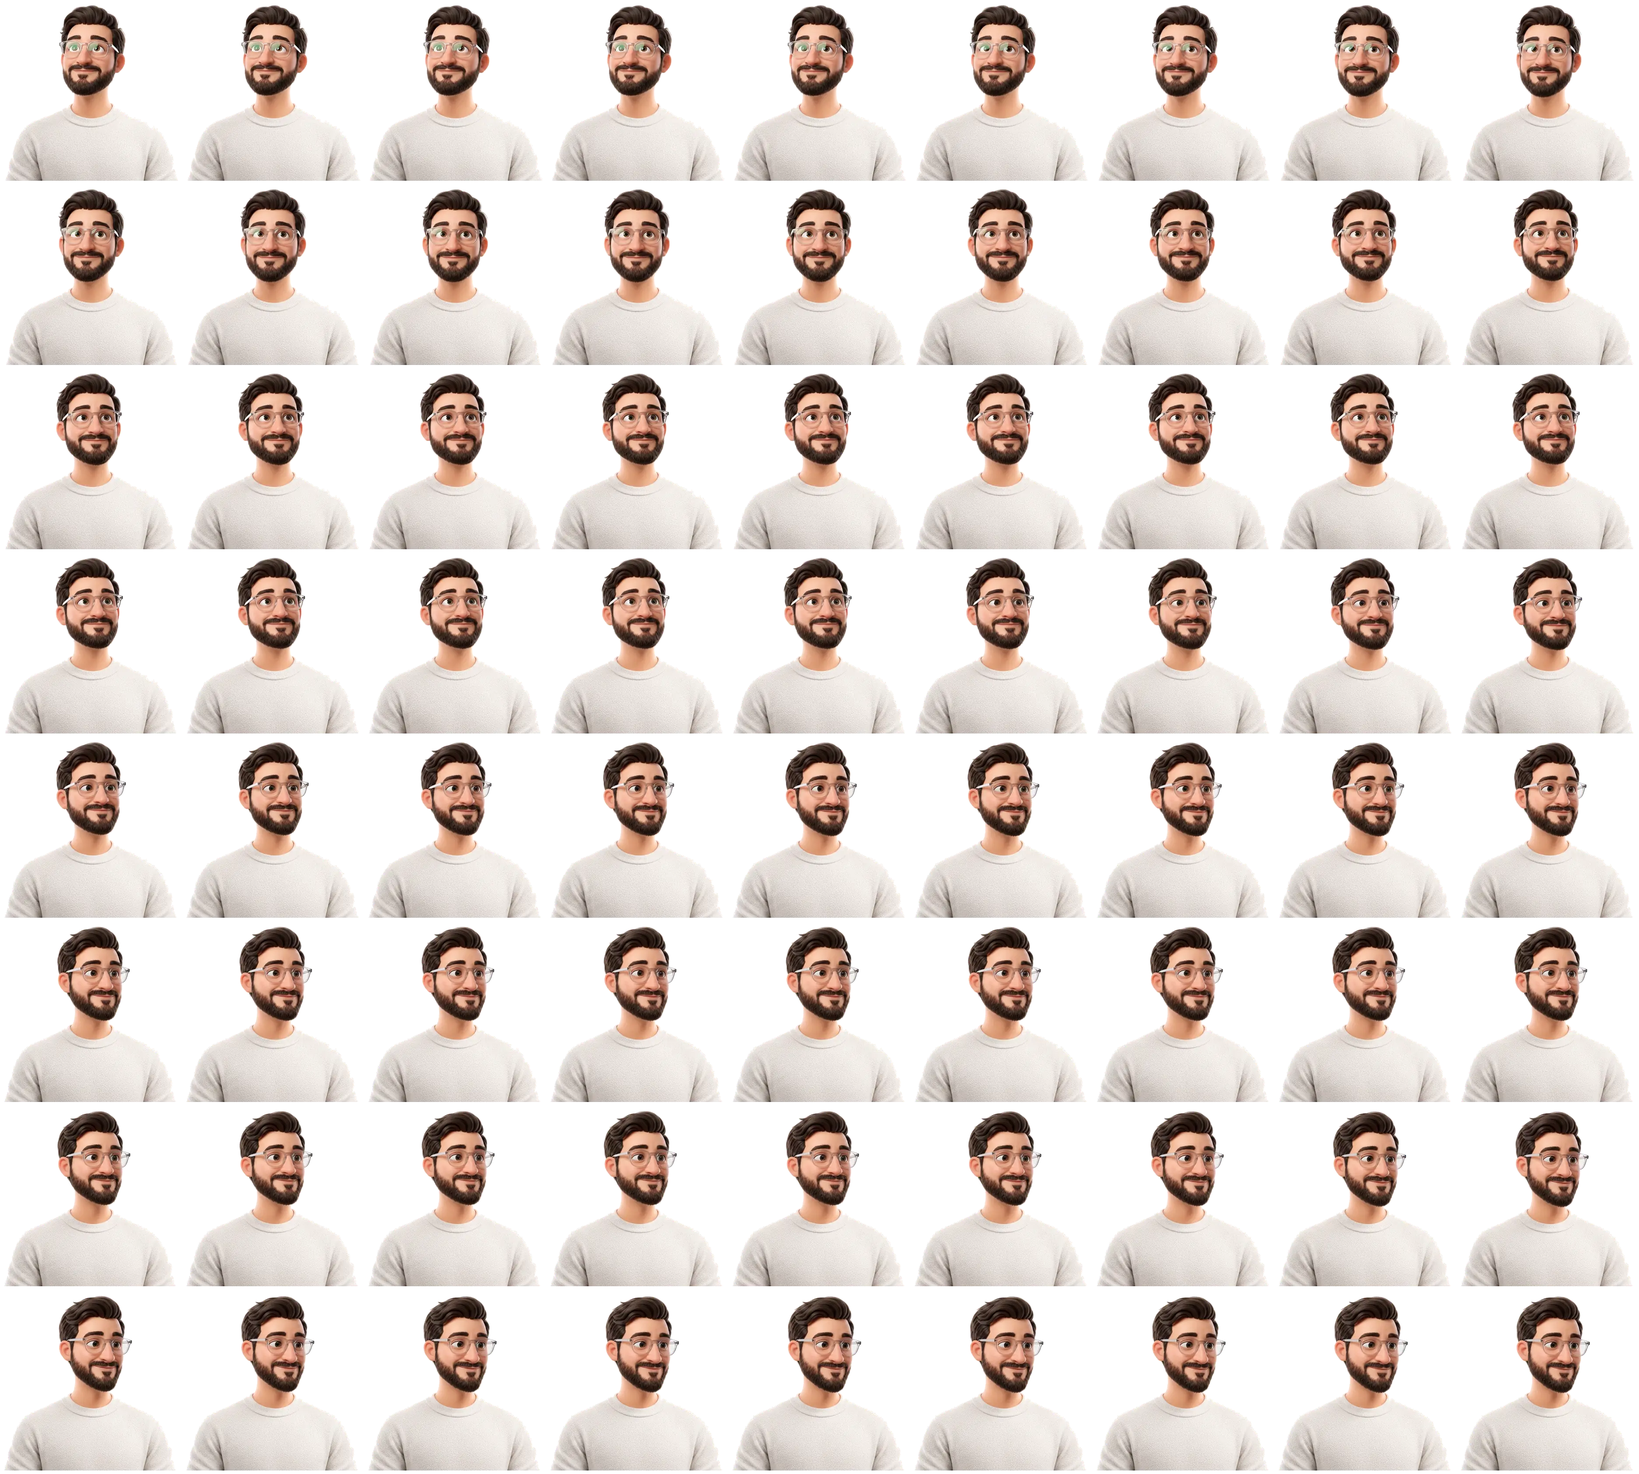
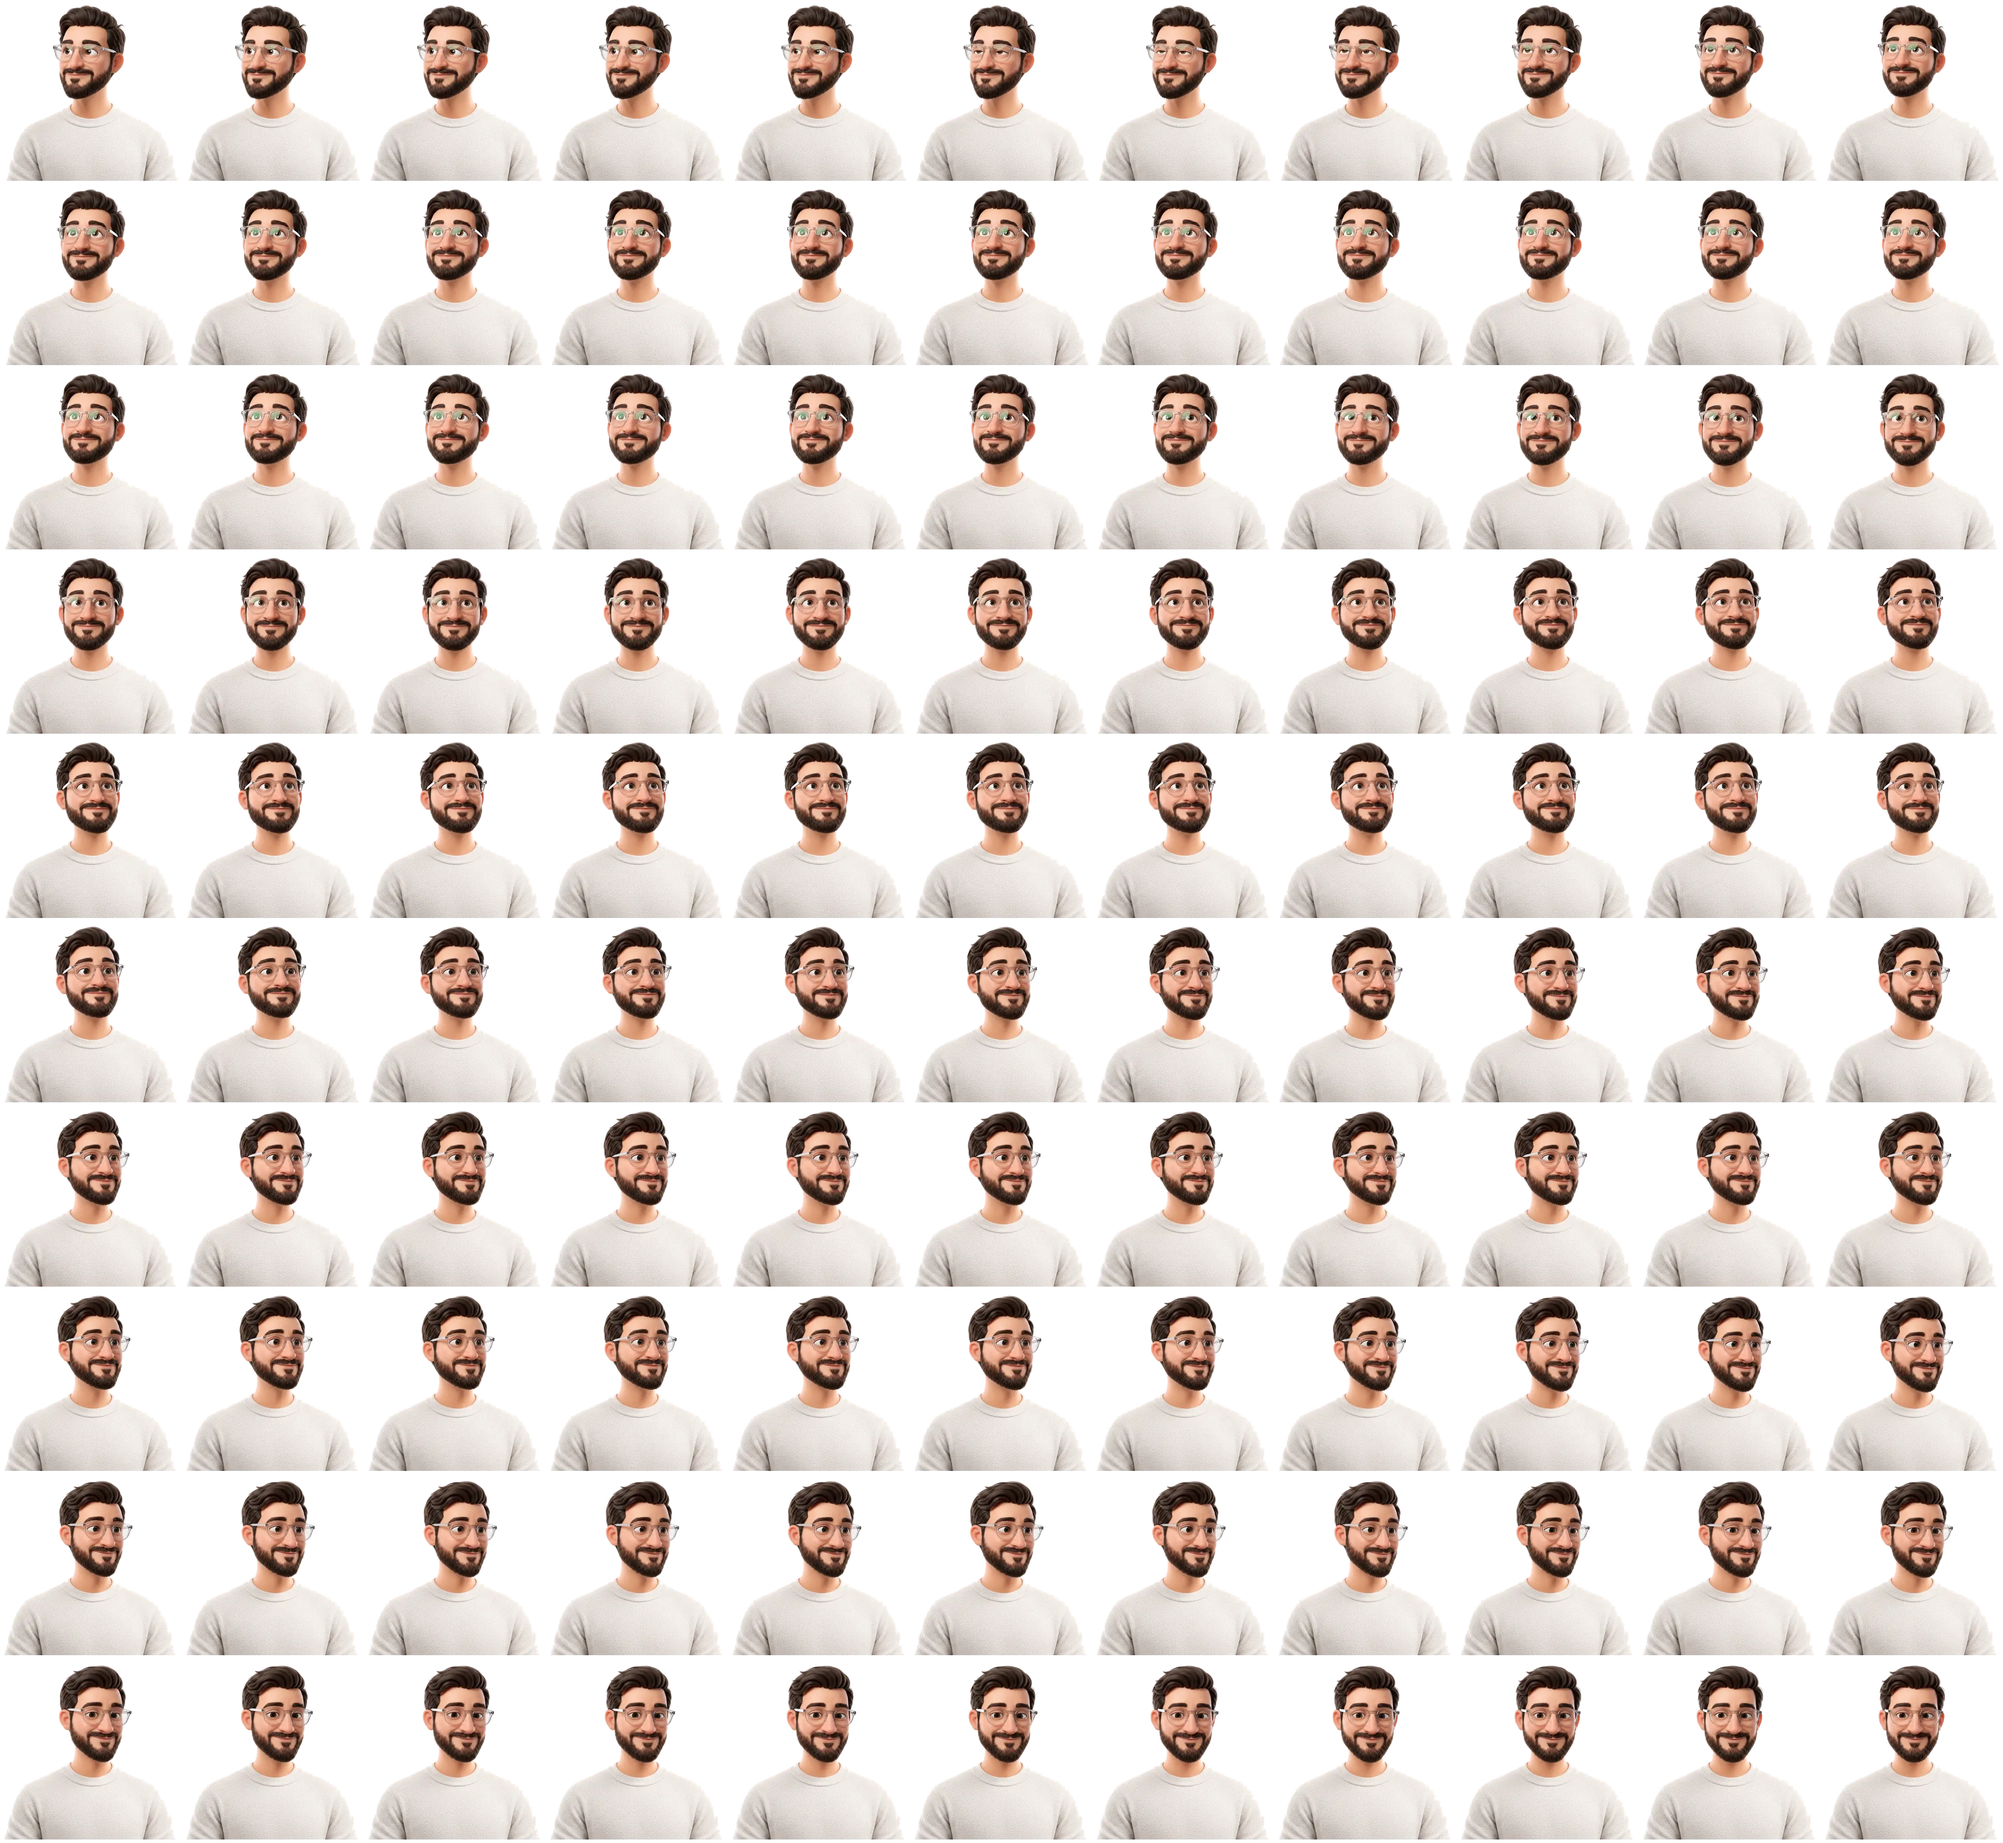
Measure the character's gaze from the eyebrows out
The cursor tracking was wrong because the gaze measurement was wrong, and it
had been measuring the wrong thing entirely.

gaze() read a fixed pixel box and took the darkest mass in it for the pupil.
Overlaying its output on the source shows the markers sitting on the EYEBROWS
in most frames: the brow is both darker and larger than the iris, and it was
inside the box. So the number the whole thing was built on tracked eyebrow
position, which follows expression, not where the character is looking. The
head also drifts and changes scale through the take, so the box slides off the
face — on some frames it reaches past the cheek into the backdrop.

Anchor on the brows instead and measure out from them. They are the most
reliable dark landmark on this face and they move with the head, so a blob
search finds them, the distance between them gives the scale, and each eye box
hangs off its own brow sized in units of that distance. What comes out is where
the eye points within the head, which is the signal, rather than where the head
happens to sit in frame, which is not. Checked by eye against the source: all
four extremes now land on frames that genuinely look that way, where the old
metric's "furthest down" frame had its pupils pointing up and to the left.

Two guards, both of which earned their place on real frames:

  - an eye box that is nearly all dark, or barely dark at all, is a blink or a
    box that has slipped, and is not read;
[…]

diff --git a/src/components/Character/characterConfig.ts b/src/components/Character/characterConfig.ts
@@ -53,9 +53,16 @@ export const FOLLOW = 6
  * The sheet holds one unbroken stretch of the recording at its own frame rate,
  * so 24 is life speed. Above about 60 the walk starts skipping frames on a
  * 60 Hz screen and the point of all this is lost; well below 24 it feels
- * underwater. 48 is twice life speed — quick to answer, still every frame.
+ * underwater.
+ *
+ * 60, the most that still shows every frame on a 60 Hz screen. The sheet holds
+ * 110 frames rather than 72 now, so crossing the whole of it is a longer walk;
+ * at the old 48 the far corners took about 1.8s to reach, which reads as the
+ * character ignoring you rather than answering slowly. This is the ceiling, so
+ * anything further has to come from the sheet being shorter, not the walk
+ * being faster.
  */
-export const MAX_TRAVEL = 48
+export const MAX_TRAVEL = 60
 
 /** Size and placement inside the hero, straight into CSS. Nothing here moves at
  *  runtime — the character is physically fixed and only the frame changes. */

diff --git a/src/components/Contact/contact.css b/src/components/Contact/contact.css
@@ -130,9 +130,9 @@
 .contact__link--github::before {
   content: '';
   position: absolute;
-  inset: -1px;
+  inset: -2px;
   z-index: -1;
-  padding: 1px;
+  padding: 2px;
   border-radius: inherit;
   /* One lit arc travelling round an otherwise clear ring, rather than colour
      all the way round: quieter, and it reads as a highlight going past. */
@@ -154,7 +154,7 @@
     linear-gradient(#000 0 0) content-box,
     linear-gradient(#000 0 0);
   mask-composite: exclude;
-  animation: contact-link-spin 3s linear infinite;
+  animation: contact-link-spin 1.6s linear infinite;
 }
 
 .contact__link--linkedin:hover::before,
@@ -169,7 +169,7 @@
 @media (prefers-reduced-motion: reduce) {
   .contact__link--linkedin::before,
   .contact__link--github::before {
-    animation-duration: 12s;
+    animation-duration: 6s;
   }
 }
 

diff --git a/scripts/build-character.py b/scripts/build-character.py
@@ -65,7 +65,15 @@ D_EDGE = 6.0
 #
 # The window is chosen below by how well it covers the nine directions, not by
 # hand. SEGMENT is its length in source frames; the search picks where it goes.
-SEGMENT = 72
+#
+# 110 rather than 72. Sweeping the length against the coverage cost, everything
+# up to about 110 buys a real improvement and nothing past it does: cost 1.29 at
+# 72, 0.99 at 110, 0.97 at the full 240, while the amount the chosen frame
+# doubles back as the cursor sweeps keeps climbing, 1.3 -> 1.5 -> 2.5. The two
+# directions that gain are the two that were visibly weak, up-left (0.92 -> 0.65)
+# and down-left (0.29 -> 0.15); at 72 no window can hold them and the horizontal
+# extremes at once, because they are 140 frames apart in the recording.
+SEGMENT = 110
 SPRITE_WIDTH = 400     # px per frame in the sheet
 QUALITY = 72
 GUTTER = 8
@@ -85,9 +93,39 @@ BOTTOM_PAD = 12        # rows added under the frame while matting, so the
 GAZE_WEIGHT_X = 2.5
 
 # --- gaze tracking --------------------------------------------------------
-EYE_ROI = (215, 272, 592, 790)   # y0, y1, x0, x1 in the 1280x720 source
-EYE_SPLIT = 690
-PUPIL_DARK = 110
+# Measured out from the EYEBROWS, not at fixed pixel coordinates.
+#
+# The earlier version read a fixed box and called the darkest mass in it the
+# pupil. Two things were wrong with that. The head drifts and changes scale
+# through the take, so the box slides off the eyes and the slide is read as
+# gaze; and the brow is both darker and larger than the iris, so what the box
+# actually measured, in most frames, was the eyebrow. Overlaying the detections
+# on the source shows the markers sitting on the brows, not the eyes.
+#
+# Anchoring on the brow pair fixes both. The brows are the most reliable dark
+# landmark on this face, they move with the head, and the distance between them
+# gives the scale, so the eye boxes follow the head and every measurement can be
+# expressed in units of that distance instead of pixels.
+FACE_BOX = (120, 360, 480, 900)  # y0, y1, x0, x1: holds the face in every frame
+BROW_SIGMAS = (7, 9, 11)         # blob widths tried when hunting for the brows
+BROW_LEVEL = 14                  # px a brow pair may sit out of level
+BROW_GAP = (55, 130)             # px: any plausible distance between the brows
+BROW_TOLERANCE = 0.18            # how far a frame may sit from the take's median
+EYE_TOP = 0.10                   # eye box top, below the brow, in gap units
+EYE_SIZE = 0.62                  # eye box side, in gap units
+IRIS_DARK = 120                  # luminance below which a pixel counts as iris
+IRIS_FILL = (0.12, 0.62)         # share of the eye box that may be dark; outside
+                                 # it the eye is shut or the box has slipped off
+# How far a frame may sit from what its neighbours say, in eye-box fractions.
+# Eyes cannot cross the whole socket and come back inside one 24fps frame, so a
+# reading that disagrees with the frames either side is a misdetection, not a
+# movement. Worth doing even though the checks above catch most of it: two
+# frames slipped through into the first build and one of them, measured off a
+# brow the search had lost, became the sheet's furthest-UP frame — so every
+# cursor at the top of the page chose a frame picked by a bad measurement.
+# 0.05 sits between the 90th and 97th percentile of the deviation, and throws
+# out 19 of 240, the half-blinks among them.
+GAZE_JUMP = 0.05
 
 
 def run_ffmpeg(dst: Path) -> None:
@@ -190,25 +228,123 @@ def matte(path):
     return fg[:-BOTTOM_PAD].astype(np.uint8), (alpha[:-BOTTOM_PAD] * 255).astype(np.uint8)
 
 
-def _pupil(lum, x0, x1):
-    sub = lum[:, x0:x1]
-    m = sub < PUPIL_DARK
-    if m.sum() < 12:
-        m = sub < np.percentile(sub, 4)
+def _blobs(lum):
+    """Dark blobs in the face box, over a few sizes."""
+    y0, y1, x0, x1 = FACE_BOX
+    sub = lum[y0:y1, x0:x1]
+    found = []
+    for sigma in BROW_SIGMAS:
+        # Scale-normalised Laplacian of Gaussian: peaks on dark blobs about
+        # sigma wide, whatever the surrounding skin happens to be lit to.
+        resp = ndi.gaussian_laplace(sub, sigma) * sigma ** 2
+        lab, n = ndi.label(resp > np.percentile(resp, 99.3))
+        for k in range(1, n + 1):
+            m = lab == k
+            if m.sum() < 25:
+                continue
+            cy, cx = ndi.center_of_mass(m)
+            found.append((cx + x0, cy + y0))
+    return found
+
+
+def _brows(blobs, gap_lo, gap_hi):
+    """The brow pair: the HIGHEST two blobs sitting level and a face apart.
+    Highest, because the only other pair that fits the description is the eyes,
+    and they are always lower."""
+    best = None
+    for i in range(len(blobs)):
+        for j in range(i + 1, len(blobs)):
+            (xi, yi), (xj, yj) = blobs[i], blobs[j]
+            if abs(yi - yj) > BROW_LEVEL or not gap_lo < abs(xi - xj) < gap_hi:
+                continue
+            height = (yi + yj) / 2
+            if best is None or height < best[0]:
+                left, right = sorted((blobs[i], blobs[j]))
+                best = (height, left, right)
+    return None if best is None else (best[1], best[2])
+
+
+def _iris(lum, brow, gap):
+    """Where the iris sits inside its own eye box, as a fraction of that box.
+
+    The box hangs off the brow and is sized by the brow gap, so this says where
+    the eye points within the head — which is the signal — rather than where the
+    head happens to be in frame, which is not."""
+    side = gap * EYE_SIZE
+    x0 = int(brow[0] - side / 2)
+    y0 = int(brow[1] + gap * EYE_TOP)
+    sub = lum[y0:int(y0 + side), x0:int(x0 + side)]
+    if sub.size == 0:
+        return None
+    m = sub < IRIS_DARK
+    fill = m.sum() / sub.size
+    if not IRIS_FILL[0] < fill < IRIS_FILL[1]:
+        return None            # blinked, or the box has slid off the eye
     ys, xs = np.nonzero(m)
-    w = (PUPIL_DARK - sub[ys, xs]).clip(1)
-    return (xs * w).sum() / w.sum() + x0, (ys * w).sum() / w.sum()
+    w = (IRIS_DARK - sub[ys, xs]).clip(1)
+    return (xs * w).sum() / w.sum() / side, (ys * w).sum() / w.sum() / side
 
 
-def gaze(path):
-    """Where this frame is looking, read off the pupils. Their position in frame
-    carries the head turn and the eye turn together, which is the whole signal."""
-    a = np.asarray(Image.open(path).convert('L')).astype(np.float32)
-    y0, y1, x0, x1 = EYE_ROI
-    lum = a[y0:y1, x0:x1]
-    lx, ly = _pupil(lum, 0, EYE_SPLIT - x0)
-    rx, ry = _pupil(lum, EYE_SPLIT - x0, x1 - x0)
-    return (lx + rx) / 2 + x0, (ly + ry) / 2 + y0
+def read_gaze(paths):
+    """Where each frame looks, in units of the distance between the brows.
+
+    Two passes over the clip. The first learns how far apart the brows sit in
+    this take; the second measures again holding the gap near that, which is
+    what keeps the search off the hair and the glasses. Blinks are filled in
+    from the frames either side rather than dropped, so the result stays one
+    reading per source frame."""
+    lums = [np.asarray(Image.open(p).convert('L')).astype(np.float32) for p in paths]
+    blobs = [_blobs(l) for l in lums]
+
+    loose = [_brows(b, *BROW_GAP) for b in blobs]
+    spans = [r[1][0] - r[0][0] for r in loose if r]
+    if not spans:
+        sys.exit('no eyebrows found — check FACE_BOX against the source.')
+    median = float(np.median(spans))
+    lo, hi = median * (1 - BROW_TOLERANCE), median * (1 + BROW_TOLERANCE)
+    print(f'  brows sit {median:.0f}px apart; holding the gap to {lo:.0f}..{hi:.0f}')
+
+    pairs = [_brows(b, lo, hi) or loose[i] for i, b in enumerate(blobs)]
+    anchors = np.array([[np.nan] * 4 if p is None
+                        else [p[0][0], p[0][1], p[1][0], p[1][1]] for p in pairs])
+    where = np.arange(len(paths))
+    for axis in range(4):
+        col = anchors[:, axis]
+        seen = np.nonzero(~np.isnan(col))[0]
+        if not len(seen):
+            sys.exit('no eyebrows found — check FACE_BOX against the source.')
+        col = np.interp(where, seen, col[seen])
+        # The head moves smoothly, so a frame that disagrees with its
+        # neighbours is a misdetection rather than a movement.
+        anchors[:, axis] = ndi.median_filter(col, size=5, mode='nearest')
+
+    out = np.full((len(paths), 2), np.nan)
+    for i, lum in enumerate(lums):
+        lx, ly, rx, ry = anchors[i]
+        gap = rx - lx
+        eyes = [e for e in (_iris(lum, (lx, ly), gap), _iris(lum, (rx, ry), gap)) if e]
+        if eyes:
+            out[i] = np.mean(eyes, axis=0) - 0.5      # centre of the box is 0
+
+    blind = np.isnan(out[:, 0])
+    if blind.all():
+        sys.exit('no eyes found — check FACE_BOX against the source.')
+
+    def fill(mask):
+        seen = np.nonzero(~mask)[0]
+        for axis in range(2):
+            out[:, axis] = np.interp(where, seen, out[seen, axis])
+
+    fill(blind)
+    # Now that there is a reading for every frame, throw out the ones the rest
+    # of the clip disagrees with, and fill those in the same way.
+    smooth = np.stack([ndi.median_filter(out[:, k], size=5, mode='nearest')
+                       for k in range(2)], axis=1)
+    stray = np.hypot(*(out - smooth).T) > GAZE_JUMP
+    fill(blind | stray)
+    print(f'  {int(blind.sum())} unreadable and {int(stray.sum())} stray frame(s), '
+          'filled from their neighbours')
+    return out
 
 
 # The nine directions the window has to be able to answer, in normalised gaze.
@@ -260,7 +396,7 @@ def main():
         print(f'  {len(frames)} frames')
 
         print('reading gaze…')
-        g = np.array([gaze(f) for f in frames])
+        g = read_gaze(frames)
 
         # Normalise to -1..1 across the WHOLE clip, before choosing the window,
         # so the window is judged against the full range the subject ever
